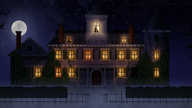
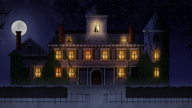
Halloween fase 22: mansion (26) con relieve en la fachada
Mapa de alturas horneado (tablas, molduras, ventanas y puerta hundidas,
persianas, mansarda, torreon cilindrico, conos, chimeneas, columnas) ->
lamina 4_relieve con normal y cavidad. Luz en vivo: luna desde arriba a
la izquierda con contraluz, relampago desde el lado del rayo y la luz de
cada ventana sobre lo que la mira. ~20 % mas de costo en el banco.

Claude-Session: https://claude.ai/code/session_01NVP2u1MWPb16oy8b6RCqty

diff --git a/td/tools/bake_plates_mansion.py b/td/tools/bake_plates_mansion.py
@@ -20,6 +20,9 @@ Laminas:
              D6 la hace crecer desde el suelo), A = 1 siempre (con A = 0
              el atlas pierde el color al achicar: PIL premultiplica)
   3_ruido    el ruido que se repite de la escena 00 (nubes, niebla)
+  4_relieve  relieve de la fachada (fase 22): RG normal, B cavidad, A = hay
+             fachada; la luz de la luna, el relampago, las ventanas y la
+             puerta se calcula en vivo con esto
 
 uso: python3 td/tools/bake_plates_mansion.py   (despues: build_atlas.py)
 """
@@ -38,7 +41,7 @@ FRAG = os.path.join(SET, 'visuals', 'scene26_mansion.frag')
 SS = 2
 R = (-3.4, -1.25, 3.4, 1.25)
 W, H = 1280, 470
-PLATES = [('1_fachada', 0), ('2_marcas', 1)]
+PLATES = [('1_fachada', 0), ('2_marcas', 1), ('4_relieve', 2)]
 
 VERT = """#version 330
 in vec2 in_pos; out vec2 vUV;
@@ -327,8 +330,79 @@ S shade(vec2 p){
   return o;
 }
 
+
+// ---------- RELIEVE (fase 22) ----------
+// Altura de cada punto de la fachada (en unidades de la escena): tablas
+// que sobresalen, cornisa y molduras, ventanas y puerta hundidas,
+// persianas con tablillas, mansarda inclinada, torreon cilindrico, conos y
+// aguja, chimeneas de ladrillo y columnas. La escena saca de aca la normal
+// y hace la luz en vivo (luna, relampago, ventanas, puerta).
+float height(vec2 p, out float on){
+  on=0.; float h=0.;
+  float board=0.004*fract(p.y*40.);
+  bool wall=(p.x>-1.72&&p.x<-0.95&&p.y>-0.56&&p.y<0.02)||(abs(p.x)<0.95&&p.y>-0.56&&p.y<0.24)||(abs(p.x)<0.21&&p.y>0.24&&p.y<0.84);
+  float gab=sdTri(p,vec2(-1.80,0.02),vec2(-0.88,0.02),vec2(-1.34,0.40));
+  if(wall||gab<0.){ on=1.; h=board; if(gab<0.&&gab>-0.035) h=0.012; }
+  if(abs(p.x)<0.21&&p.y>0.24&&p.y<0.84) h=0.05+board;              // la torre sale del cuerpo
+  float tx=(p.x-1.20)/0.25;
+  if(abs(tx)<1.&&p.y>-0.56&&p.y<0.52){ on=1.; h=sqrt(max(1.-tx*tx,0.))*0.25+board; }
+  if(abs(tx)<1.12&&p.y>0.50&&p.y<0.545){ on=1.; h=sqrt(max(1.-tx*tx/1.25,0.))*0.27+0.01; }
+  if(abs(p.x)<0.99&&p.y>0.205&&p.y<0.255){ on=1.; h=0.035+0.008*step(0.5,fract(p.x*14.))+(p.y-0.205)*0.3; }
+  float mt=(p.y-0.255)/0.22;
+  if(mt>0.&&mt<1.){ float hw=mix(1.00,0.80,pow(mt,0.7));
+    if(abs(p.x)<hw){ on=1.;
+      vec2 sc=p*vec2(26.,30.); sc.x+=mod(floor(sc.y),2.)*0.5; vec2 f=fract(sc)-vec2(0.5,1.0);
+      h=0.035-mt*0.10+0.003*(1.-smoothstep(0.3,0.52,length(f*vec2(1.,0.9)))); } }
+  if(abs(p.x)<0.21&&p.y>0.24&&p.y<0.84) { on=1.; h=0.05+board; }
+  if(abs(p.x)<0.235&&p.y>0.80&&p.y<0.845){ on=1.; h=0.065; }
+  float spr=sdTri(p,vec2(-0.25,0.845),vec2(0.25,0.845),vec2(0.,1.08));
+  if(spr<0.){ on=1.; h=0.06+(0.25-abs(p.x))*0.35; }
+  float cone=sdTri(p,vec2(0.92,0.545),vec2(1.48,0.545),vec2(1.20,0.93));
+  if(cone<0.){ on=1.; float r=(0.93-p.y)/0.385*0.28; float u=clamp((p.x-1.20)/max(r,0.01),-1.,1.); h=sqrt(1.-u*u)*r; }
+  for(int i=0;i<3;i++){ vec3 ch=MN_CHIM[i];
+    if(abs(p.x-ch.x)<ch.z&&p.y>ch.y-0.36&&p.y<ch.y){ on=1.;
+      vec2 s2=p*vec2(28.,56.); s2.x+=mod(floor(s2.y),2.)*0.5; vec2 f=fract(s2);
+      h=0.06+sqrt(max(1.-pow((p.x-ch.x)/ch.z,2.),0.))*0.02-0.004*clamp(step(f.x,0.07)+step(f.y,0.12),0.,1.); }
+    if(abs(p.x-ch.x)<ch.z+0.015&&p.y>ch.y-0.03&&p.y<ch.y){ on=1.; h=0.09; } }
+  if(on>0.&&p.y<-0.50){ vec2 s3=p*vec2(9.,14.); s3.x+=mod(floor(s3.y),2.)*0.45; vec2 f=fract(s3); h=0.012-0.006*clamp(step(f.x,0.05)+step(f.y,0.08),0.,1.); }
+  // porche
+  if(abs(p.x)<0.42&&p.y>-0.225&&p.y<-0.17){ on=1.; h=0.10; }
+  for(int k=0;k<4;k++){ float cx=k<2?(k==0?-0.36:-0.17):(k==2?0.17:0.36);
+    if(abs(p.x-cx)<0.016&&p.y>-0.56&&p.y<-0.225){ on=1.; h=0.08+sqrt(max(1.-pow((p.x-cx)/0.016,2.),0.))*0.016; } }
+  // puerta hundida con marco y tableros
+  vec4 dr=MN_DOOR; vec2 dq=p-dr.xy; float top=dr.w-dr.z;
+  float dd=min(max(abs(dq.x)-dr.z,max(dq.y-top,-dr.w-dq.y)),length(dq-vec2(0.,top))-dr.z);
+  if(dd<0.035&&dd>0.){ on=1.; h=0.02+0.01*smoothstep(0.035,0.015,dd); }
+  if(dd<0.){ on=1.; h=-0.03+0.004*step(0.012,abs(abs(dq.x)-0.05))*step(0.02,abs(fract((dq.y+dr.w)*6.)-0.5)); }
+  // ventanas: vidrio hundido, marco, alfeizar, dintel y persianas
+  for(int i=0;i<MN_NW;i++){ vec4 w=MN_WIN[i]; vec2 q=p-w.xy;
+    if(abs(q.x)>w.z+0.09||abs(q.y)>w.w+0.09) continue;
+    float d=mnWinD(p,i); int ty=MN_TYPE[i];
+    if(ty==0){ float sx=abs(q.x)-w.z-0.03;
+      if(abs(sx)<0.03&&abs(q.y)<w.w&&!((i==3||i==13)&&q.y<w.w*0.2)){ on=1.; h=0.010+0.003*fract(q.y*70.); }
+      if(abs(q.x)<w.z+0.02&&q.y>w.w&&q.y<w.w+0.025){ on=1.; h=0.018; }
+      if(abs(q.x)<w.z+0.025&&q.y<-w.w&&q.y>-w.w-0.018){ on=1.; h=0.020; } }
+    if(d<0.018&&d>0.){ on=1.; h=0.012+0.008*smoothstep(0.018,0.006,d); }
+    if(d<=0.){ on=1.; float mull=min(abs(q.x)-0.006, abs(q.y-(ty==1?w.w-w.z:0.))-0.006); if(ty==2) mull=min(abs(q.x),abs(q.y))-0.005;
+      h=mull<0.?-0.012:-0.025; } }
+  return h;
+}
+vec4 relief(vec2 p){
+  float on, o2; float h=height(p,on);
+  if(on<0.5) return vec4(0.5,0.5,1.,0.);
+  float e=0.0026;
+  float hx=height(p+vec2(e,0.),o2)-height(p-vec2(e,0.),o2);
+  float hy=height(p+vec2(0.,e),o2)-height(p-vec2(0.,e),o2);
+  vec3 n=normalize(vec3(-hx/(2.*e),-hy/(2.*e),1.));
+  // cavidad: mas oscuro donde lo de alrededor sobresale
+  float avg=0.; for(int k=0;k<4;k++){ float a=float(k)*1.5708; avg+=height(p+vec2(cos(a),sin(a))*0.012,o2); }
+  float ao=clamp(1.-max(avg*0.25-h,0.)*14.,0.45,1.);
+  return vec4(n.xy*0.5+0.5,ao,1.);
+}
+
 void main(){
   vec2 p=mix(rect.xy,rect.zw,vUV);
+  if(plate==2){ fc=relief(p); return; }
   S o=shade(p);
   if(plate==1){ fc=vec4(o.mk.rgb,1.); return; }
   fc=vec4(pow(clamp(o.c*2.,0.,1.),vec3(1./2.2)),o.a);
@@ -362,7 +436,7 @@ def bake():
         vao.render(mode=moderngl.TRIANGLE_STRIP)
         img = np.frombuffer(fbo.read(components=4, dtype='f4'), 'f4').reshape(H * SS, W * SS, 4)[::-1]
         fbo.release()
-        if pid == 0:
+        if pid in (0, 2):
             a = img[..., 3:4]
             pm = np.concatenate([img[..., :3] * a, a], -1).reshape(H, SS, W, SS, 4).mean((1, 3))
             rgb = pm[..., :3] / np.maximum(pm[..., 3:4], 1e-5)

diff --git a/docs/53_SETS_Y_HALLOWEEN.md b/docs/53_SETS_Y_HALLOWEEN.md
@@ -490,3 +490,15 @@ La calabaza principal (que la 13 reusa en la hilera) ahora es un **sólido 3D** 
 - **Costo en el banco de prueba:** 01 igual que antes (~0,20 s); 13 sube ~20 % (0,20 → 0,245 s) porque la calabaza nueva tapa más superficie. Hay que confirmar los FPS en TD.
 - Después de hornear la 01 hay que correr `bake_plates_hilera.py` (copia la calabaza a la 13) y `build_atlas.py`.
 - **Reconstruir Todo:** cambiaron las láminas de 01 y 13.
+
+## Fase 22: mansión con relieve (escena 26)
+
+![Antes y ahora](img/mansion_2d_vs_3d.jpg)
+
+La fachada tiene ahora un **mapa de alturas** horneado (`height()` en `bake_plates_mansion.py`, lámina `4_relieve`: normal en RG, cavidad en B): tablas que sobresalen, cornisa y molduras, ventanas y puerta hundidas, persianas con tablillas, mansarda inclinada, torreón cilíndrico, conos, aguja, chimeneas de ladrillo y columnas. En vivo:
+
+- la luna ilumina desde arriba a la izquierda, con contraluz en los cantos; el torreón queda en sombra del lado opuesto;
+- el **relámpago** llega desde el lado donde cae el rayo (en el gran clímax se ve muy bien);
+- la luz de cada ventana pega más en lo que la mira: el canto de las persianas, el alféizar, el marco.
+
+**Costo:** ~20 % más que antes en el banco de prueba, al nivel de la escena más pesada del set (el bosque de faroles). Confirmar los FPS en TD. **Reconstruir Todo:** lámina nueva.

diff --git a/CLAUDE.md b/CLAUDE.md
@@ -34,3 +34,4 @@ Trabajar en una rama; hacer **commit y push**. Desde el 21 de octubre de 2026: *
 - **Fase 19** (rama `claude/halloween-f19-carnaval`, sobre f18): escena 30 carnaval abandonado (rueda, carrusel y focos en vivo; el payaso del clímax).
 - **Fase 20** (rama `claude/halloween-f20-cementerio-3d`, sobre f19): prueba de realismo en la escena 00: lápidas horneadas como sólidos 3D con normal, luz en vivo (`stoneLight`). Comparación en docs/img/cementerio_2d_vs_3d*.jpg.
 - **Fase 21** (rama `claude/halloween-f21-calabazas-3d`, sobre f20): calabaza 3D (01 y 13) y tallado con grosor en la 01. Plan de fases 22–28 (3D): 22 mansión, 23 reloj, 24 momia+esqueleto, 25 bosque+fantasmas, 26 castillo+tormenta, 27 manos+túnel, 28 velas+caldero(+sábanas morgue).
+- **Fase 22** (rama `claude/halloween-f22-mansion-3d`, sobre f21): relieve de la fachada de la mansión (26) con luz en vivo.
